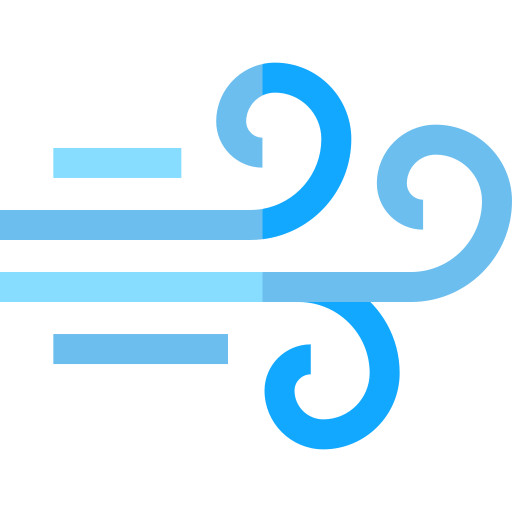
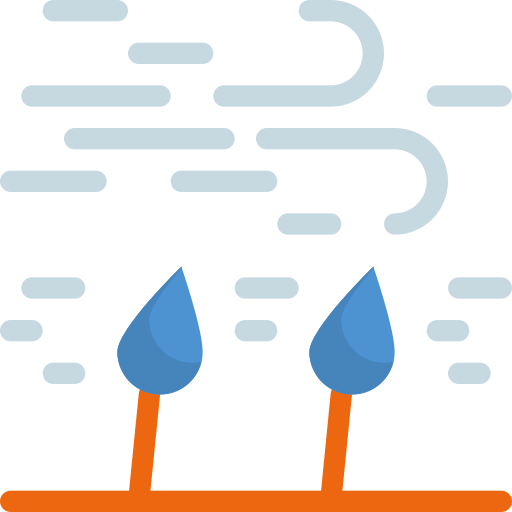
Weather app using an API is finished

diff --git a/API/API.js b/API/API.js
@@ -2,6 +2,7 @@ const apiKey = "70ff21e4d61ede13895323f18465977e";
 const apiUrl = "https://api.openweathermap.org/data/2.5/weather?units=metric&q=";
 const searchBox = document.querySelector(".search input");
 const searchBtn = document.querySelector(".search button");
+const weatherIcon = document.querySelector(".weather-icon");
 
 async function checkWeather(city) {
     const response = await fetch(apiUrl + city + `&appid=${apiKey}`);
@@ -14,6 +15,23 @@ async function checkWeather(city) {
     document.querySelector(".Humidity").innerHTML = data.main.humidity + "%";
     document.querySelector(".Wind").innerHTML = data.wind.speed + " km/h";
 
+    if(data.weather[0].main == "Clouds"){
+        weatherIcon.src = "APIIMGS/clouds.png";
+    } 
+    else if(data.weather[0].main == "Clear"){
+        weatherIcon.src = "APIIMGS/clear.png";
+    }
+    else if(data.weather[0].main == "Rain"){
+        weatherIcon.src = "APIIMGS/rain.png";
+    }
+    else if(data.weather[0].main == "Drizzle"){
+        weatherIcon.src = "APIIMGS/drizzle.png";
+    }
+    else if(data.weather[0].main == "Mist"){
+        weatherIcon.src = "APIIMGS/mist.png";
+    } else if(data.weather[0].main == "Snow"){
+        weatherIcon.src = "APIIMGS/snow.png";
+    } 
 }
 
 searchBtn.addEventListener("click", () => {

diff --git a/API/API.html b/API/API.html
@@ -17,7 +17,7 @@
         </div>
 
         <div class="weather">
-            <img src="APIIMGS/cloudy.png" alt="Weather-icon" class="weather-icon">
+            <img src="APIIMGS/clouds.png" alt="Weather-icon" class="weather-icon">
             <h1 class="temp">12°C</h1>
             <h2 class="city">Chisinau</h2>
             <div class="details">
@@ -30,7 +30,7 @@
                 </div>
                 
                     <div class="col">
-                        <img src="APIIMGS/wind.png" alt="Wind icon">
+                        <img src="APIIMGS/windS.png" alt="Wind icon">
                         <div>
                             <p class="Wind">15 Km/h</p>
                             <p>Wind Speed</p>

diff --git a/API/API.css b/API/API.css
@@ -63,11 +63,13 @@ body{
 }
 
 .weather h1{
+    font-family: 'Poppins', sans-serif; 
     font-size: 80px;
     font-weight: 500;
 }
 
 .weather h2{
+    font-family: 'Poppins', sans-serif; 
     font-size: 45px;
     font-weight: 400;
     margin-top: -10px;
@@ -92,7 +94,12 @@ body{
     margin-right: 10px;
 }
 
-.humidty, .wind{
+.Humidity, .Wind{
+    font-family: 'Poppins', sans-serif; 
     font-size: 20px;
     margin-top: -6px;
+}
+
+p{
+    font-family: 'Poppins', sans-serif; 
 }
